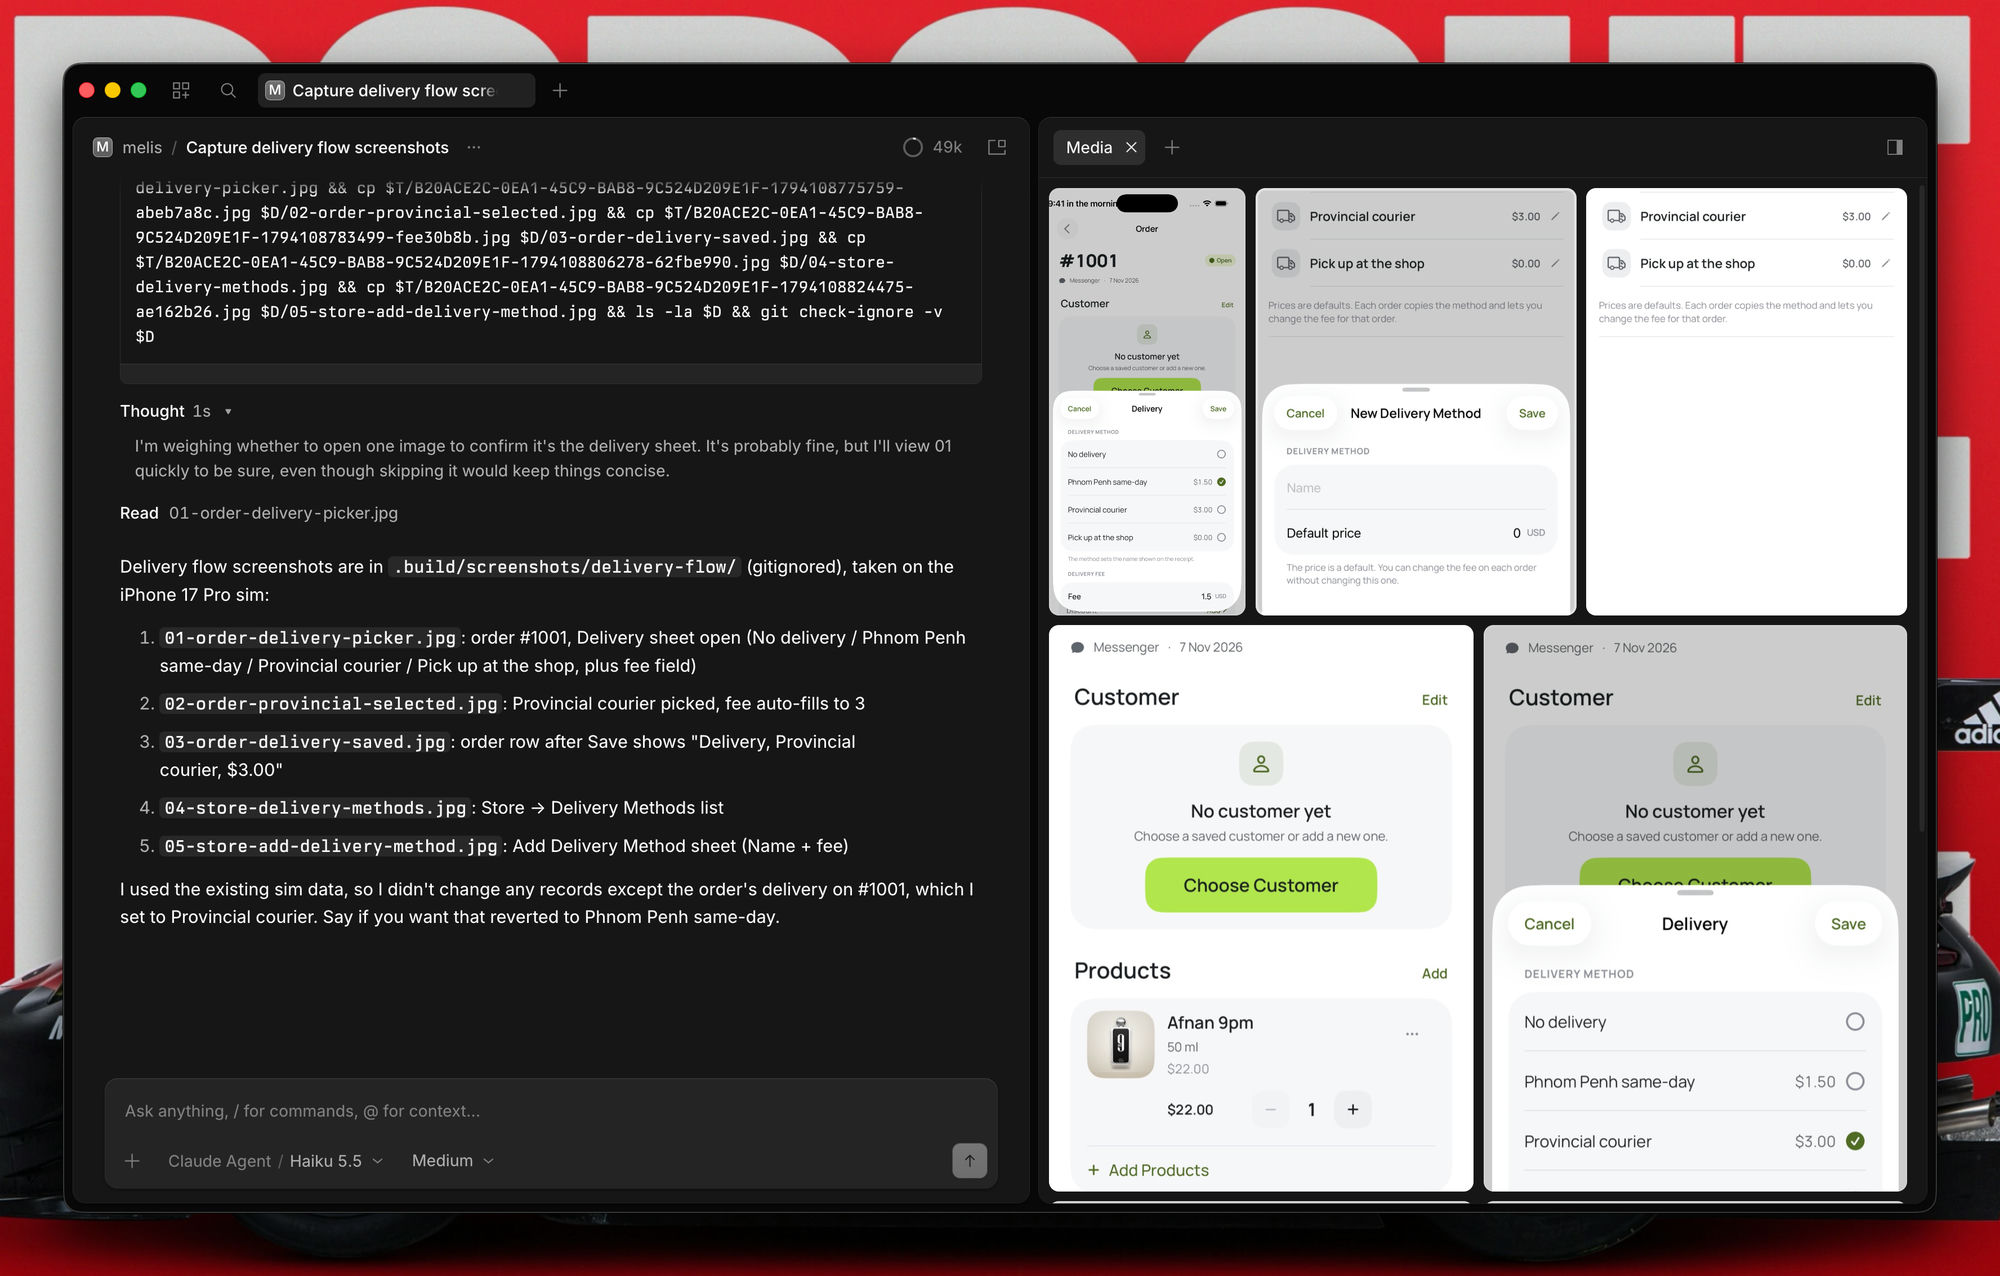
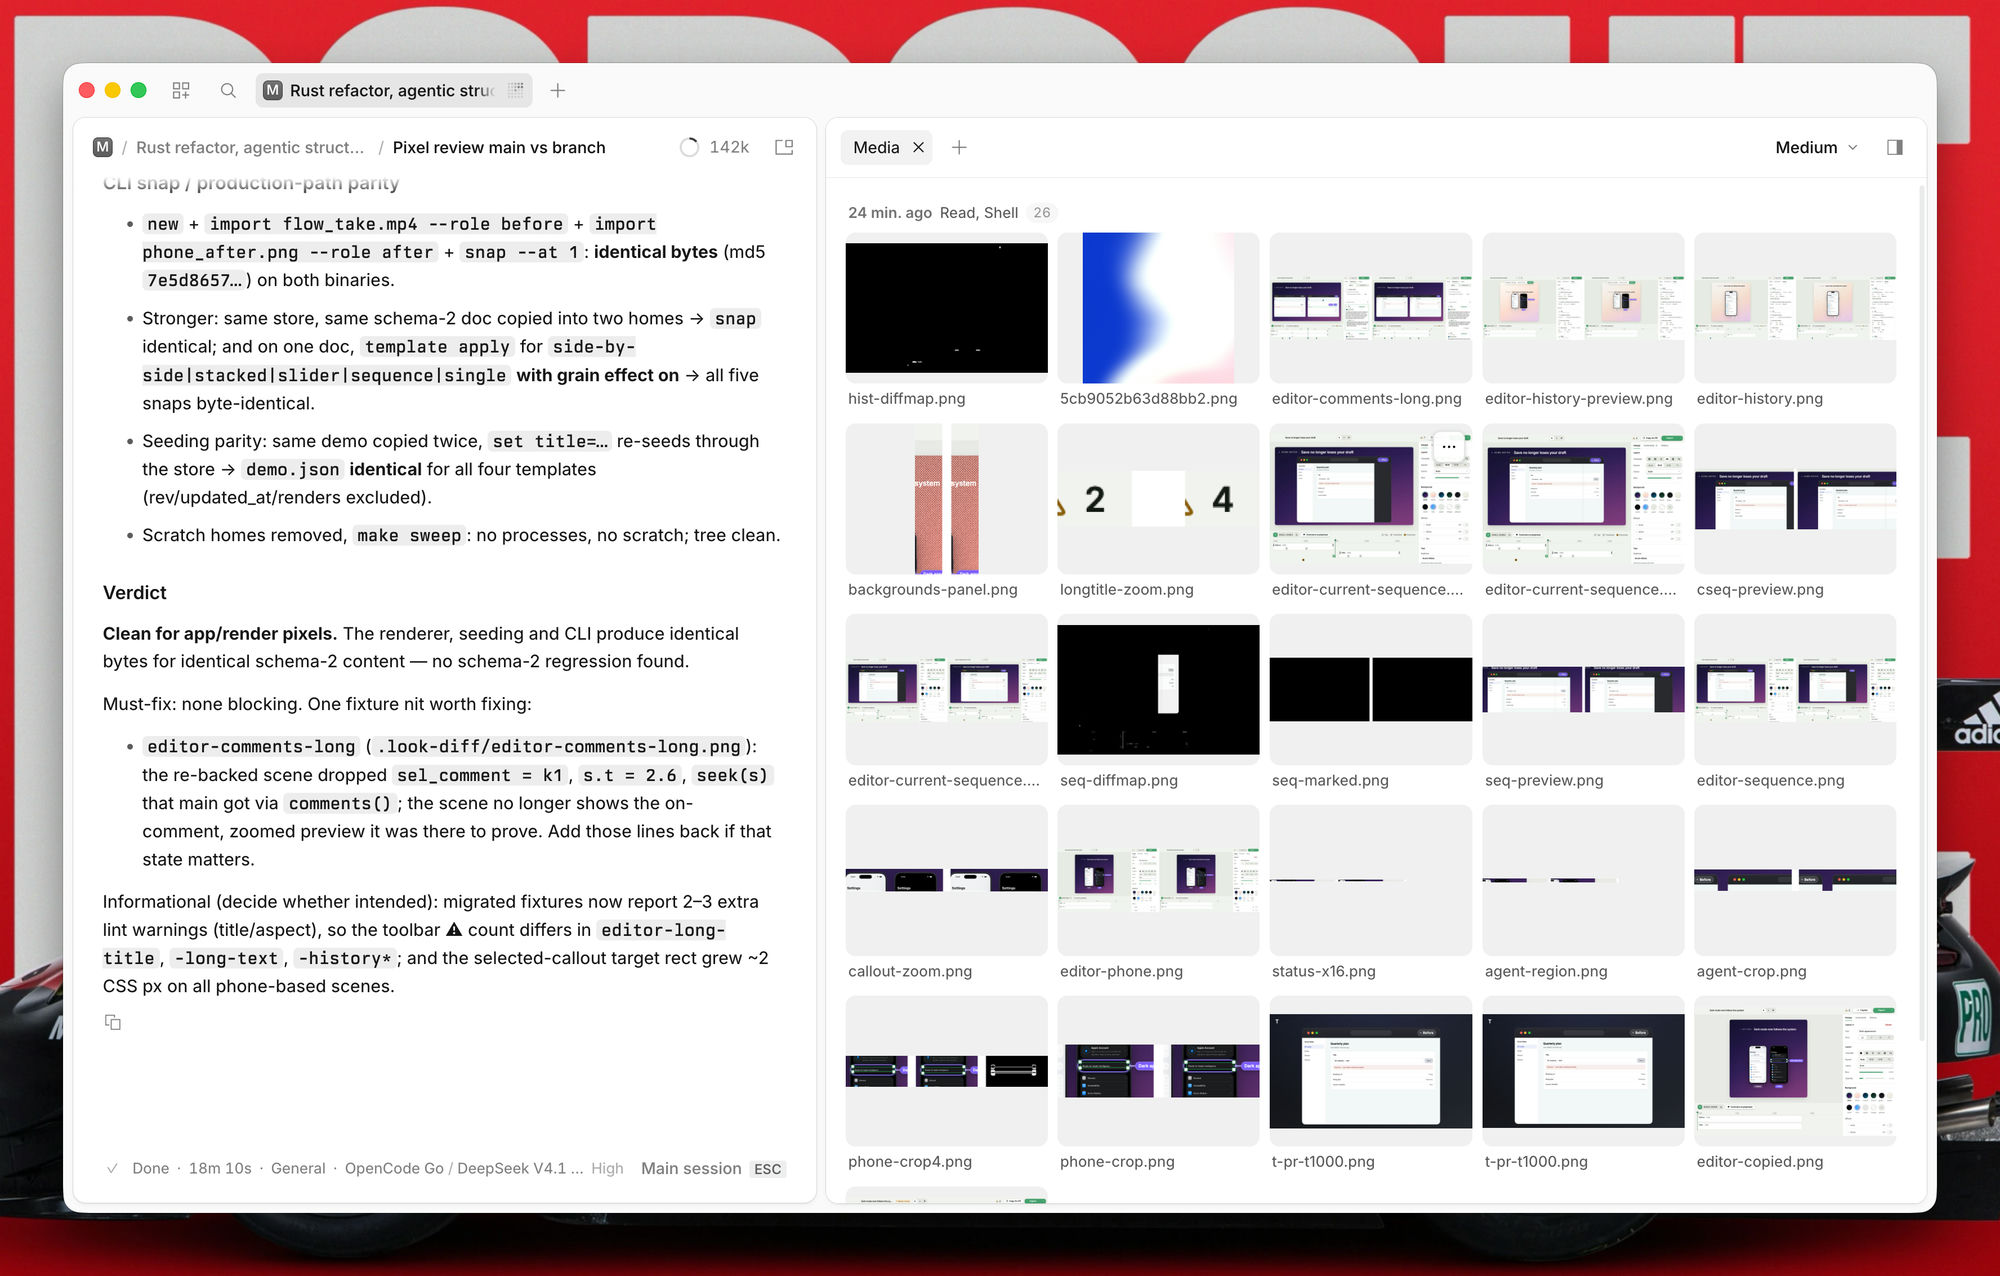
docs: refresh README screenshots (#4)

diff --git a/README.md b/README.md
@@ -59,7 +59,7 @@ Then add the checkout's absolute path to `plugins`.
 ## Use
 
 <p align="center">
-  <img src="./screenshot-viewer.jpg" alt="The full-window viewer with a screenshot open, arrows and a 1 / 7 counter" width="900" />
+  <img src="./screenshot-viewer.jpg" alt="The full-window viewer with a screenshot open, arrows and a 9 / 26 counter" width="900" />
 </p>
 
 Open a session, then pick **Media** from the session panel menu, or run
